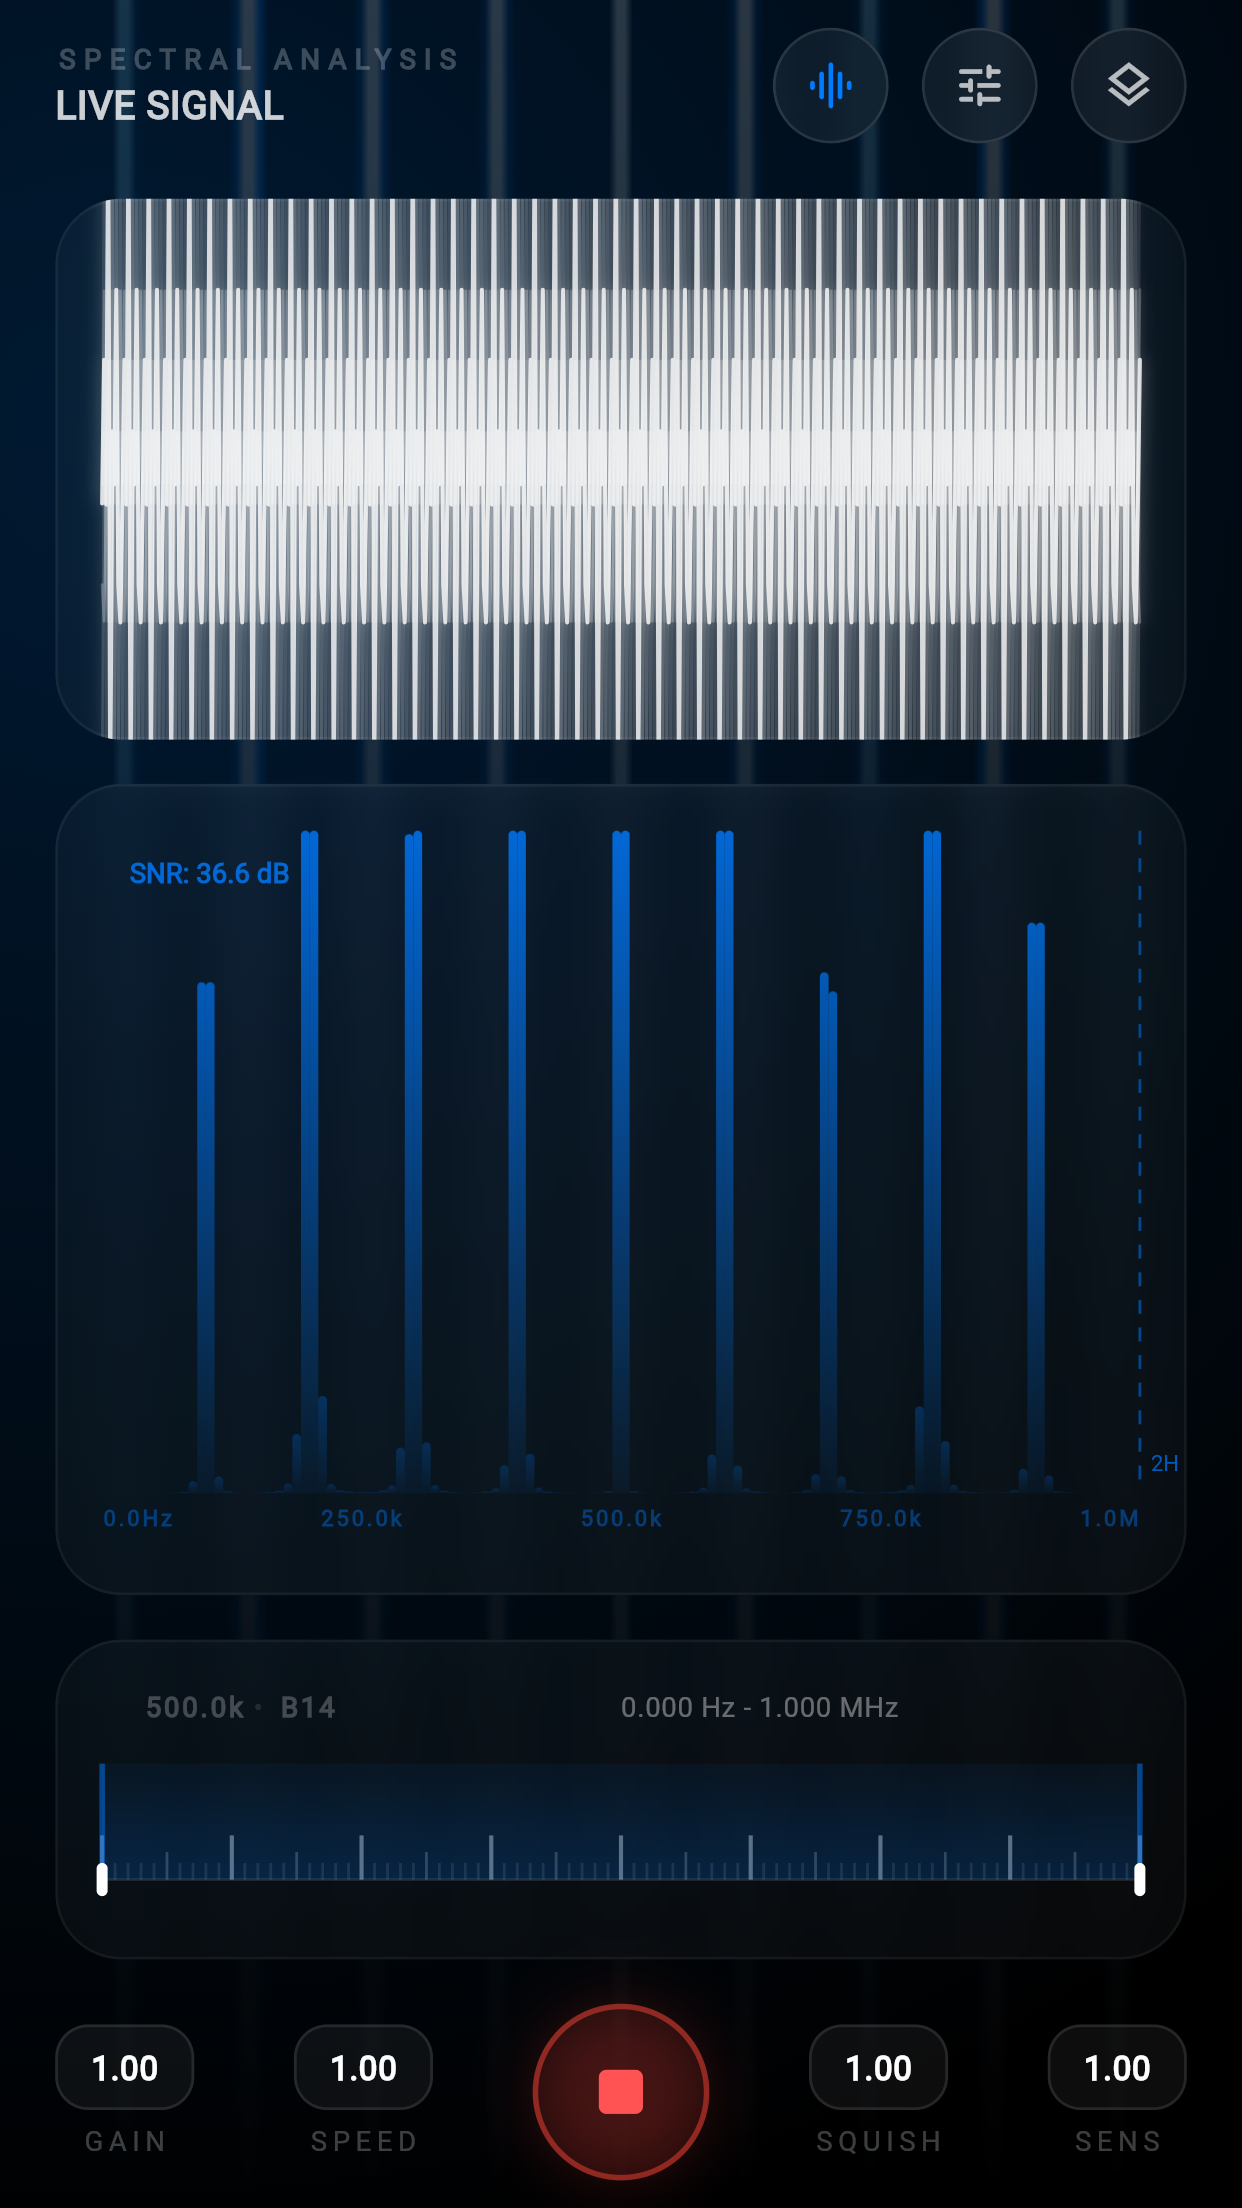
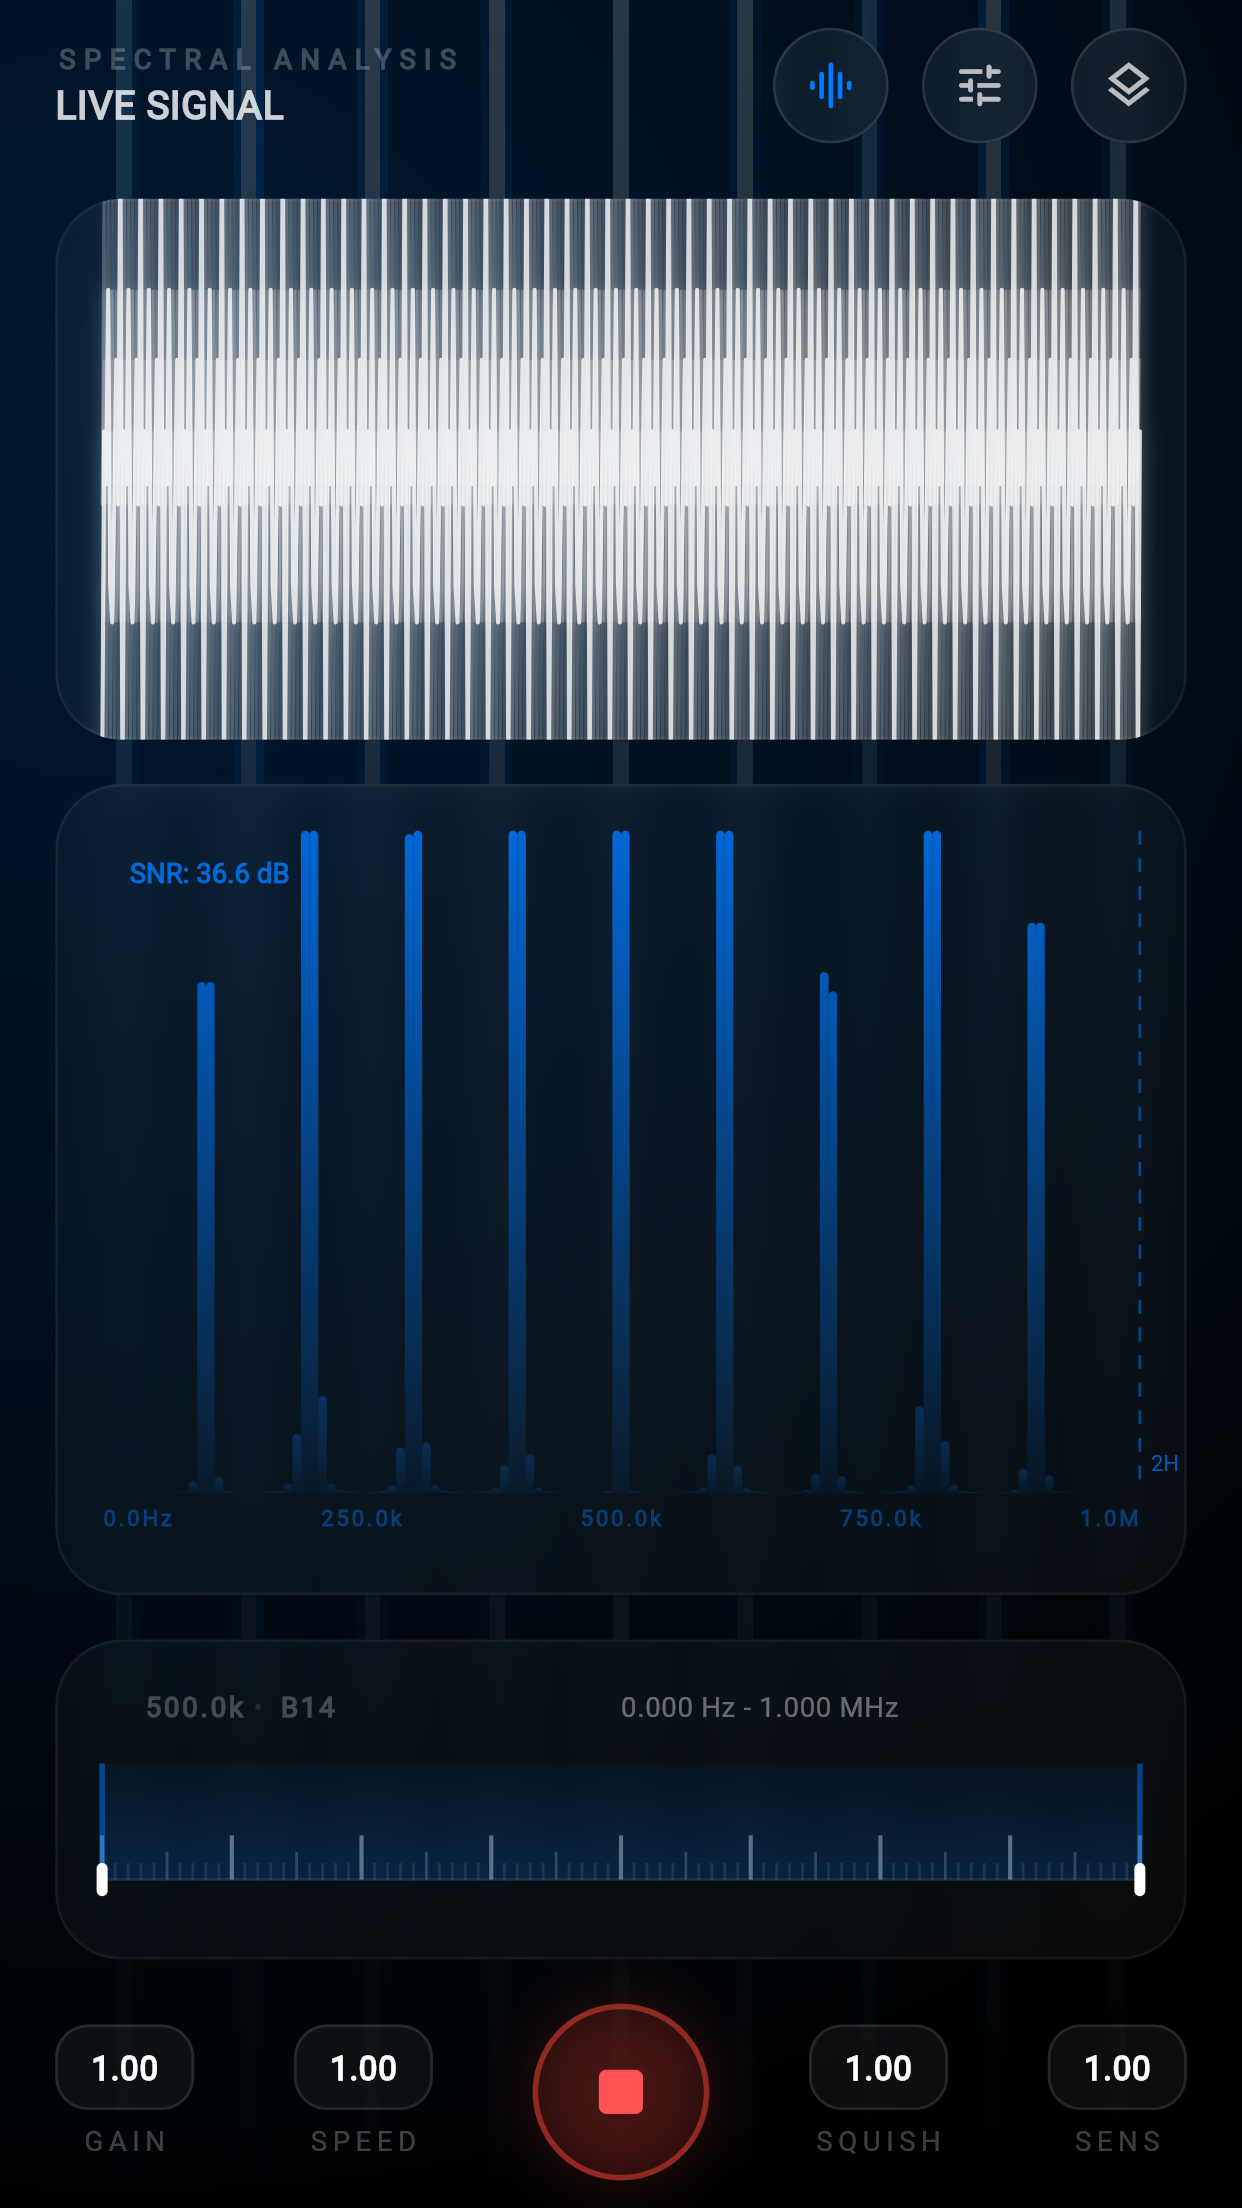
Draw the waterfall with point sampling instead of bilinear
Stretching the 160x160 texture with bilinear filtering blurred it into a
soft, low-res-looking background. Nearest-neighbour keeps each cell a
crisp block, so the waterfall reads as deliberately pixelated. A test
paints a single texel at 4x and checks its block is flat with nothing
bleeding into the neighbouring pixels; bilinear fails it.

Screenshots refreshed.

Claude-Session: https://claude.ai/code/session_018ESpm4vDGSF3e8ib8MfYx3

Changed region(s): [[0.0612, 0.0938, 0.9179, 0.3438]]

diff --git a/test/waterfall_texture_test.dart b/test/waterfall_texture_test.dart
@@ -191,4 +191,36 @@ void main() {
             image: texture.image, rows: 8, scrollProgress: 0.5)),
         isTrue);
   });
+
+  test('the painter scales cells up as crisp blocks, not blurred', () async {
+    final texture = WaterfallTexture(rows: 8);
+    addTearDown(texture.dispose);
+    texture.sync(history: [tone(256)], revision: 1, epoch: 0, view: view);
+    final lit = expectedColumns(tone(256)).first;
+
+    // 4 screen pixels per texel in both directions.
+    const scale = 4;
+    final recorder = ui.PictureRecorder();
+    WaterfallPainter(image: texture.image, rows: 8)
+        .paint(ui.Canvas(recorder), const ui.Size(160.0 * scale, 8.0 * scale));
+    final picture = recorder.endRecording();
+    final image = picture.toImageSync(160 * scale, 8 * scale);
+    picture.dispose();
+    addTearDown(image.dispose);
+    final px = await pixels(image);
+
+    const width = 160 * scale;
+    const y = 1; // Inside the newest row's block.
+    final left = lit * scale;
+    // Every pixel of the texel's block carries it at full strength...
+    final inside = [
+      for (int x = left; x < left + scale; x++) alphaAt(px, width, x, y)
+    ];
+    expect(inside.toSet(), hasLength(1), reason: 'one flat block: $inside');
+    expect(inside.first, greaterThan(0));
+    // ...and nothing bleeds into the pixel beside it, as bilinear would.
+    final right = expectedColumns(tone(256)).last * scale + scale;
+    expect(alphaAt(px, width, left - 1, y), 0);
+    expect(alphaAt(px, width, right, y), 0);
+  });
 }

diff --git a/lib/src/ui/waterfall_painter.dart b/lib/src/ui/waterfall_painter.dart
@@ -224,9 +224,10 @@ class WaterfallPainter extends CustomPainter {
       image,
       Rect.fromLTWH(0, 0, image.width.toDouble(), image.height.toDouble()),
       Rect.fromLTWH(0, dy, size.width, size.height),
-      // Bilinear, so fractional scroll offsets move smoothly rather than
-      // snapping texel rows between screen pixels.
-      Paint()..filterQuality = FilterQuality.low,
+      // Nearest-neighbour: each cell is a crisp block, deliberately
+      // pixelated. Bilinear smeared the 160×160 texture into a blurry,
+      // low-res-looking background.
+      Paint()..filterQuality = FilterQuality.none,
     );
     canvas.drawRect(
       rect,
